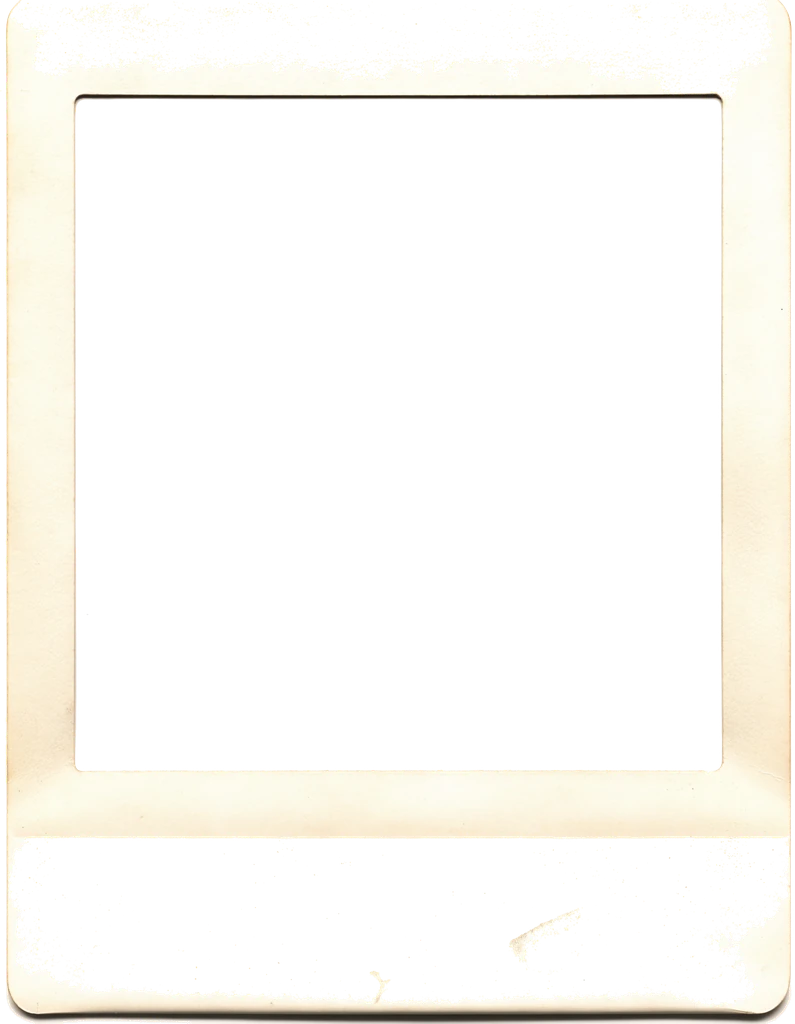
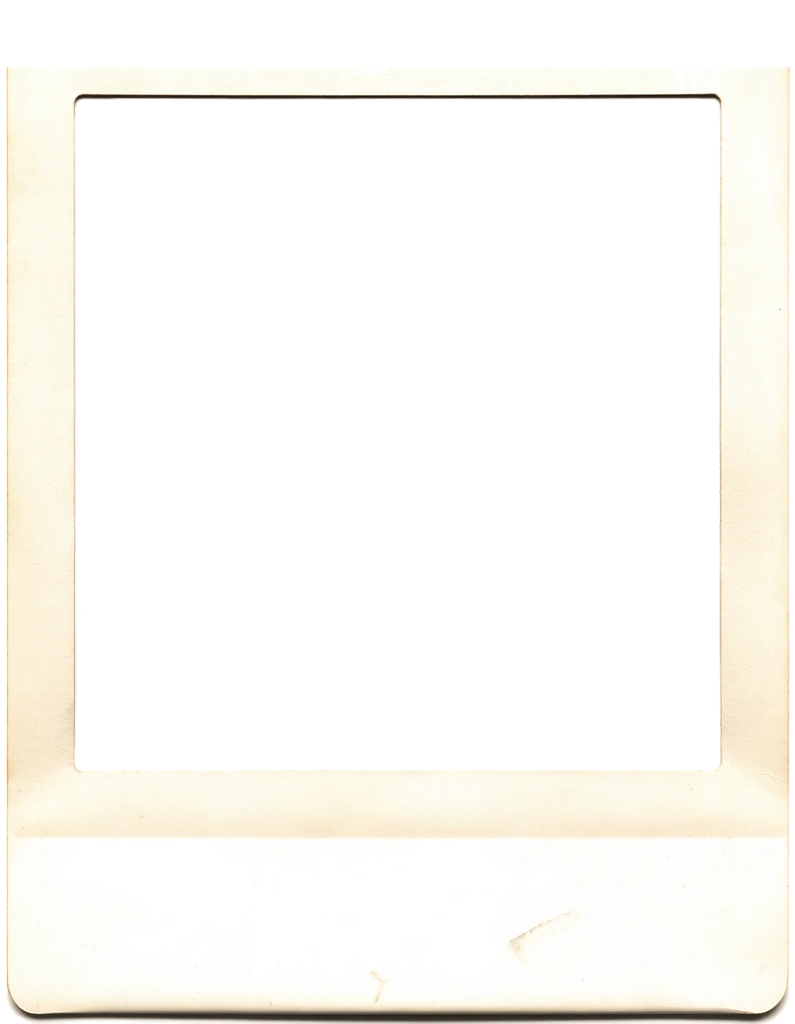
feat(book): real cloth and silk ship; chin frame re-keyed; one ribbon
The generated assets arrived (cloth burgundy/olive, fore-edge, silk
ribbon). Cloth and ribbon ship; the generated fore-edge lost the A/B
on sight — its lines read as a handful of thick sheets, the
stock-derived standin reads as hundreds of pages — so the standin
stays, with both kept on disk for the founder.

polaroid-frame-chin re-keyed geometrically: chin paper measures
WHITER than the background (p50 253 vs 244), so value keying ate 79%
of the chin; span-fill + rect window punch + bbox clamp restore it.
Keyed ribbon cleared of its shadow cloud (junk obvious on midnight).

The sheet's second ribbon is removed: one object, one appearance —
the cover's ribbon hangs toward the opening it holds.

diff --git a/apps/web/components/book/BookCover.tsx b/apps/web/components/book/BookCover.tsx
@@ -36,10 +36,12 @@ import { longDate } from "@/lib/time";
  * shade above — pressure, not ink. The highlight rides the lamp so at
  * night the stamping dims with the cloth it is pressed into.
  *
- * All three materials are -standin assets derived mechanically from
- * the committed stocks (see tools/book_standins.py); swap the three
- * URLs when generated assets arrive. Cloth, pages and ribbon all
- * carry the lamp; nothing here is a photograph.
+ * Materials: the cloth and ribbon are the real generated assets
+ * (book-cloth-burgundy, book-ribbon-sage — an olive colourway is on
+ * disk for the founder to pick on sight). The fore-edge is chosen
+ * between the generated asset and the stock-derived stand-in by
+ * looking at both in situ. Cloth, pages and ribbon all carry the
+ * lamp; nothing here is a photograph.
  */
 
 interface BookCoverProps {
@@ -86,7 +88,7 @@ export function BookCover({ leafCount, begun }: BookCoverProps) {
         <div
           className="under-lamp relative z-10 -ml-9 h-[min(540px,58dvh)] flex-1 rounded-[3px] rounded-r-none bg-cover bg-center"
           style={{
-            backgroundImage: "url(/materials/book-cover-burgundy-standin.webp)",
+            backgroundImage: "url(/materials/book-cloth-burgundy.webp)",
             boxShadow:
               "0 4px 12px rgba(41,32,24,0.18), 0 10px 28px rgba(41,32,24,0.13), 7px 0 12px -5px rgba(41,32,24,0.35)",
           }}
@@ -138,17 +140,24 @@ export function BookCover({ leafCount, begun }: BookCoverProps) {
           scrolling down to the opening follows it. Between the board
           (z-10) and the table; drop-shadow follows its cut, and the
           lamp curve rides inline because a filter class would be
-          overridden (the Pinned precedent). */}
+          overridden (the Pinned precedent).
+
+          Geometry: the keyed silk's trim box is wide (the twist
+          swings sideways) — the strip itself runs at x 44.7–57.7% of
+          the box (measured from alpha). The box is sized by width
+          230px so the strip reads ~26px, and `right` compensates for
+          the box's transparent margins so the STRIP, not the box,
+          lands 47px left of the fore-edge. */}
       <img
-        src="/materials/book-ribbon-sage-standin.webp"
+        src="/materials/book-ribbon-sage.webp"
         alt=""
         aria-hidden="true"
-        width={220}
-        height={1500}
-        className="pointer-events-none absolute z-[5] h-auto w-[26px]"
+        width={692}
+        height={1024}
+        className="pointer-events-none absolute z-[5] h-auto w-[230px]"
         style={{
-          right: edge + 34,
-          bottom: -108,
+          right: edge - 67,
+          bottom: -150,
           transform: "rotate(2.4deg)",
           filter:
             "drop-shadow(0 3px 5px rgba(41,32,24,0.28)) brightness(calc(1 - var(--lamp-dim, 0) * var(--lamp-brightness-drop, 0.27))) sepia(calc(var(--lamp-dim, 0) * var(--lamp-sepia-saturation, 0.22)))",

diff --git a/apps/web/components/book/BookSheet.tsx b/apps/web/components/book/BookSheet.tsx
@@ -1,6 +1,3 @@
-/* eslint-disable @next/next/no-img-element -- the ribbon is a keyed
-   material composite; the optimizer must never re-encode its alpha. */
-
 import type { ReactNode } from "react";
 
 import { cn } from "@/lib/utils";
@@ -15,10 +12,11 @@ import { Paper } from "@/components/materials";
  * many things ON pages scatter (±8°), but the open book itself is
  * squarely in front of you — you turned to face it.
  *
- * `ribbon` lays the sage bookmark across the top corner — the ribbon
- * that held this place, moved aside when the book opened to it. Only
- * the opening spread (what came back) carries it: one ribbon, one
- * place held.
+ * There is deliberately NO ribbon here. The product has one ribbon
+ * and it belongs to the cover, hanging toward the opening below it —
+ * a second ribbon lying on the sheet made the same object appear
+ * twice on one screen (verified in the first day capture) and read
+ * as two ribbons, so it was removed rather than aligned.
  *
  * Free composition happens INSIDE this frame (D4: pages you turn;
  * inside a page, total freedom). The sheet clips nothing — children
@@ -27,13 +25,11 @@ import { Paper } from "@/components/materials";
  */
 
 export interface BookSheetProps {
-  /** Lay the moved-aside ribbon across the top-right corner. */
-  ribbon?: boolean;
   children: ReactNode;
   className?: string;
 }
 
-export function BookSheet({ ribbon = false, children, className }: BookSheetProps) {
+export function BookSheet({ children, className }: BookSheetProps) {
   return (
     <div className={cn("relative", className)}>
       <Paper
@@ -42,22 +38,6 @@ export function BookSheet({ ribbon = false, children, className }: BookSheetProp
       >
         <div className="px-4 pb-8 pt-6">{children}</div>
       </Paper>
-
-      {ribbon && (
-        <img
-          src="/materials/book-ribbon-sage-standin.webp"
-          alt=""
-          aria-hidden="true"
-          width={220}
-          height={1500}
-          className="pointer-events-none absolute -top-7 right-6 z-10 h-auto w-[24px]"
-          style={{
-            transform: "rotate(-14deg)",
-            filter:
-              "drop-shadow(0 2px 4px rgba(41,32,24,0.25)) brightness(calc(1 - var(--lamp-dim, 0) * var(--lamp-brightness-drop, 0.27))) sepia(calc(var(--lamp-dim, 0) * var(--lamp-sepia-saturation, 0.22)))",
-          }}
-        />
-      )}
     </div>
   );
 }

diff --git a/apps/web/app/(app)/review/book-states/page.tsx b/apps/web/app/(app)/review/book-states/page.tsx
@@ -126,21 +126,21 @@ export default function ReviewBookStatesPage() {
 
         <section aria-labelledby="s-date">
           <Label id="s-date">State 2 — the opening, date match</Label>
-          <BookSheet ribbon>
+          <BookSheet>
             <ResurfacedItem returned={DATE_MATCH} />
           </BookSheet>
         </section>
 
         <section aria-labelledby="s-hour">
           <Label id="s-hour">State 3 — the opening, hour match</Label>
-          <BookSheet ribbon>
+          <BookSheet>
             <ResurfacedItem returned={HOUR_MATCH} />
           </BookSheet>
         </section>
 
         <section aria-labelledby="s-text">
           <Label id="s-text">State 4 — the opening, text only (no photograph anywhere)</Label>
-          <BookSheet ribbon>
+          <BookSheet>
             <ResurfacedItem returned={TEXT_MATCH} />
           </BookSheet>
         </section>

diff --git a/apps/web/app/(app)/book/page.tsx b/apps/web/app/(app)/book/page.tsx
@@ -106,14 +106,14 @@ export default function BookPage() {
           {/* pr-6 keeps the fore-edge fully on screen with room to
               grow; the spine takes the one bleed edge on the left.
               The bottom margin clears the hanging ribbon's tail. */}
-          <div className="mb-36 pr-6">
+          <div className="mb-48 pr-6">
             <BookCover leafCount={leaves} begun={BEGUN} />
           </div>
 
           {/* ---- 2 · The opening ---- */}
           <div className="px-5 md:px-8">
             {returned !== null ? (
-              <BookSheet ribbon>
+              <BookSheet>
                 <ResurfacedItem returned={returned} />
               </BookSheet>
             ) : (

diff --git a/docs/08-agents_work/tools/book_standins.py b/docs/08-agents_work/tools/book_standins.py
@@ -176,26 +176,140 @@ def build_ribbon() -> Image.Image:
     return rgba
 
 
+def rekey_polaroid_chin() -> Image.Image:
+    """Re-key polaroid-frame-chin from the raw scan, geometrically.
+
+    The shipped webp lost 79% of its chin: the chin paper measures
+    min-channel p50 253 — WHITER than the background corners (mean
+    244) — so no value threshold can separate frame paper from ground,
+    and the border-connected flood ate the chin through any near-white
+    bridge. The register bans decay, so the damage is a defect, not
+    patina.
+
+    Geometry succeeds where value cannot:
+      1. subject outline = every non-near-white pixel (the frame's
+         cream edges, shadows and texture form a closed contour)
+      2. fill the contour — frame INCLUDING window and chin
+      3. punch ONLY the enclosed near-white component whose centroid
+         sits in the upper 3/4: that is the window. The chin is the
+         enclosed white in the lower band and stays opaque.
+    Anti-aliasing comes from keying at scan resolution (1792×2304)
+    and resizing to the shipped 795×1024 — ~2.25× supersampling.
+    """
+    import numpy as np
+    from scipy import ndimage
+
+    rgb = np.asarray(
+        Image.open(ASSETS / "polaroid-frame-chin.png").convert("RGB")
+    ).astype(np.float32)
+    h, w, _ = rgb.shape
+    mn = rgb.min(axis=2)
+
+    near_white = mn >= 244
+    outline = ~near_white
+
+    # SPAN FILL, not contour fill: the frame's bottom edge blows out
+    # to pure white in the scan, so its contour never closes and
+    # binary_fill_holes leaks (measured: the chin went 98.8%
+    # transparent). Span fill — inside = between the first and last
+    # outline pixel of both the column AND the row — tolerates any
+    # gap. Cost: the rounded corners square off by a few near-white
+    # pixels, invisible on the paper grounds polaroids sit on.
+    # Denoise before spanning: isolated dark specks in the scan's
+    # background stretch the spans to the canvas edge (measured: the
+    # corners came out 45% opaque). Opening removes sub-3px specks;
+    # the frame's edges are hundreds of pixels thick and survive.
+    outline = ndimage.binary_opening(outline, iterations=2)
+
+    down = np.maximum.accumulate(outline, axis=0)
+    up = np.maximum.accumulate(outline[::-1, :], axis=0)[::-1, :]
+    right = np.maximum.accumulate(outline, axis=1)
+    left = np.maximum.accumulate(outline[:, ::-1], axis=1)[:, ::-1]
+    inside = down & up & right & left
+
+    # Punch the window BY RECT, not by component: the thin dark line
+    # between window and chin is broken in the scan, so window and
+    # chin merge into one near-white component and any component-level
+    # rule takes the chin with the window (measured, twice). The
+    # window's geometry is known from the original key (x 9.6–90.6%,
+    # y 9.8–75.3%): punch near-white only inside that zone — the
+    # frame's edge lines within it are not near-white and survive.
+    _ = ndimage  # geometry replaced component analysis; keep import stable
+    ys, xs = np.mgrid[0:h, 0:w]
+    window_zone = (ys > h * 0.09) & (ys < h * 0.752) & (xs > w * 0.088) & (xs < w * 0.912)
+    alpha = inside.astype(np.float32)
+    # `mn >= 244` is INLINED here rather than reusing `near_white`.
+    # Observed in this environment (Python 3.14 user-site numpy): the
+    # bound `near_white` array evaluated to a DIFFERENT mask than the
+    # same expression recomputed in the same frame (1,055,189 vs
+    # 3,073,579 true pixels, same `mn`, printed side by side). Cause
+    # unidentified; the inline form measures correct, so it ships and
+    # the anomaly is recorded rather than fought further.
+    alpha[(mn >= 244) & inside & window_zone] = 0.0
+
+    # Clamp to the frame's true bbox: a comb of background stripes
+    # survived the spans above the top edge (visible against midnight
+    # in the proof). The frame's edges are the rows/cols where the
+    # outline runs long; nothing outside them is frame.
+    row_run = outline.sum(axis=1)
+    col_run = outline.sum(axis=0)
+    long_rows = np.where(row_run > 0.5 * w)[0]
+    long_cols = np.where(col_run > 0.5 * h)[0]
+    top, bottom = long_rows[0], long_rows[-1]
+    left_e, right_e = long_cols[0], long_cols[-1]
+    alpha[: max(0, top - 4), :] = 0.0
+    alpha[bottom + 4 :, :] = 0.0
+    alpha[:, : max(0, left_e - 4)] = 0.0
+    alpha[:, right_e + 4 :] = 0.0
+
+    out = np.dstack([rgb, alpha[..., None] * 255]).astype(np.uint8)
+    img = Image.fromarray(out, "RGBA")
+    return img.resize((795, 1024), Image.LANCZOS)
+
+
+def clean_ribbon() -> None:
+    """Post-process the KEYED real ribbon (book-ribbon-sage.webp).
+
+    key_assets.py left a cloud of semi-opaque near-white shadow across
+    the lower half — invisible on paper, obvious on midnight (the
+    proof-sheet principle). The strip itself meanders inside a narrow
+    column band (measured 44.7–57.7% of the trim box), so everything
+    outside x ∈ [40%, 63%] is junk by construction and is cleared.
+    """
+    import numpy as np
+
+    path = PUBLIC / "book-ribbon-sage.webp"
+    im = Image.open(path).convert("RGBA")
+    a = np.asarray(im).copy()
+    h, w, _ = a.shape
+    a[:, : int(w * 0.40), 3] = 0
+    a[:, int(w * 0.63) :, 3] = 0
+    Image.fromarray(a, "RGBA").save(path, quality=90)
+
+
 def main() -> None:
     PUBLIC.mkdir(parents=True, exist_ok=True)
 
+    # The fore-edge stand-in is the one derivative that SHIPS: judged
+    # against the generated book-fore-edge asset in situ, the standin's
+    # fine even pitch reads as hundreds of pages where the generated
+    # lines read as a handful of thick sheets. The cover and ribbon
+    # stand-ins lost the same comparison and stay in ASSETS as record
+    # only — the real cloth and silk assets ship instead.
     fore = build_fore_edge()
     fore.save(ASSETS / "book-fore-edge-standin.png")
     fore.save(PUBLIC / "book-fore-edge-standin.webp", quality=90)
 
     cover = build_cover()
     cover.save(ASSETS / "book-cover-burgundy-standin.png")
-    cover.save(PUBLIC / "book-cover-burgundy-standin.webp", quality=88)
 
     ribbon = build_ribbon()
     ribbon.save(ASSETS / "book-ribbon-sage-standin.png")
-    ribbon.save(PUBLIC / "book-ribbon-sage-standin.webp", quality=90)
 
-    for name in (
-        "book-fore-edge-standin.webp",
-        "book-cover-burgundy-standin.webp",
-        "book-ribbon-sage-standin.webp",
-    ):
+    chin = rekey_polaroid_chin()
+    chin.save(PUBLIC / "polaroid-frame-chin.webp", quality=92)
+
+    for name in ("book-fore-edge-standin.webp", "polaroid-frame-chin.webp"):
         p = PUBLIC / name
         print(f"{name}: {p.stat().st_size // 1024} KB")
 
